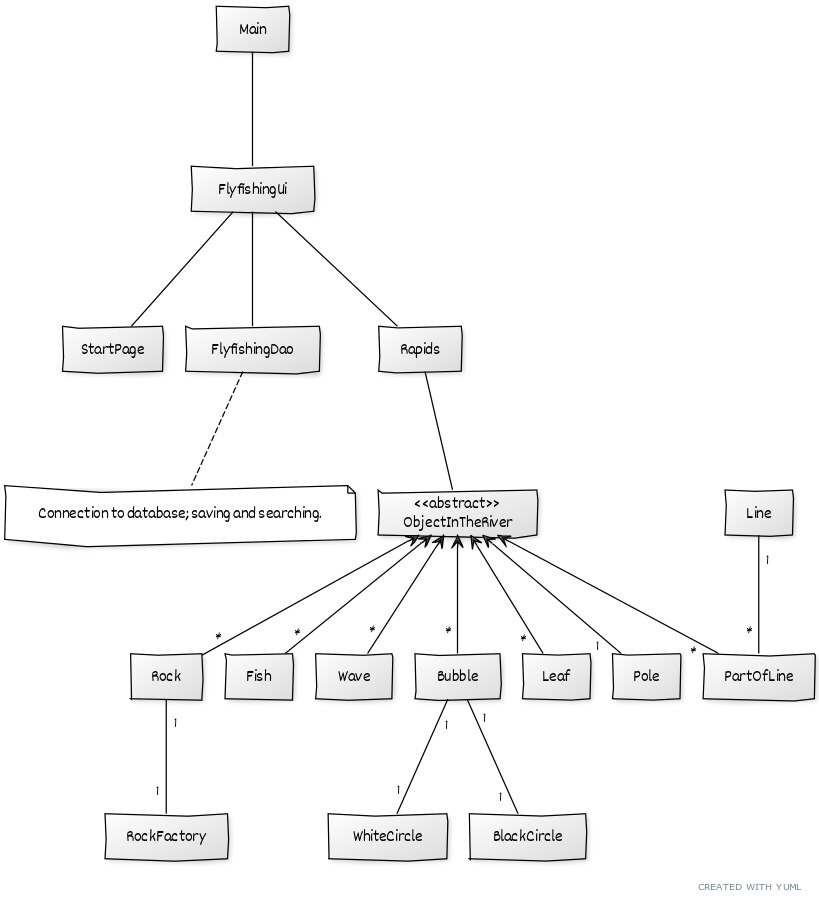
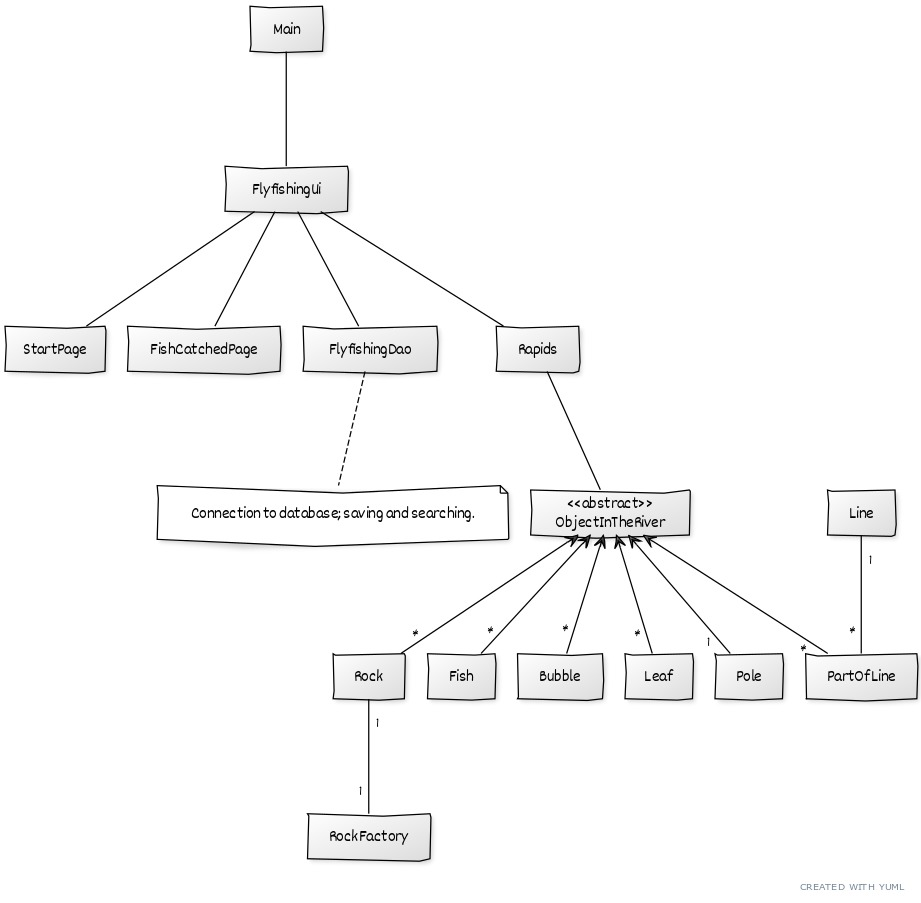
Eriytetty kalasaalissivu omaksi luokakseen jotta kaikilla eri näkymillä oma luokka. Lisäksi muokattu kalan polskinnan kohdistusta.

diff --git a/FlyfishingGame/src/main/java/flyfishinggame/ui/FlyfishingUi.java b/FlyfishingGame/src/main/java/flyfishinggame/ui/FlyfishingUi.java
@@ -39,28 +39,29 @@ public class FlyfishingUi extends Application {
     public static Stage stage;
     public static Scene scene;
     public static Button startButton;
+    public static Button continueButton;
     public static TextField nicknameField;
     public static Line line;
-    public Rapids rapids;
-    private String nickname;
-    private int points;
-    private FlyfishingDao db;
-    private Text topScores;
+    public static Rapids rapids;
+    public static String nickname;
+    public static int points;
+    public static FlyfishingDao db;
+    public static Text topScores;
 
     public FlyfishingUi() throws SQLException {
-        
+
         init(); //Read configurations.
         poleLength = WIDTH / 5;
-        
-        this.db = new FlyfishingDao();
-        this.pane = new Pane();
-        this.nicknameField = new TextField();
-        this.startButton = new Button("Start");
-        this.nickname = "";
-        this.points = 0;
-        this.rapids = new Rapids();
-        this.line = new Line();
-        this.topScores = null;
+        db = new FlyfishingDao();
+        pane = new Pane();
+        nicknameField = new TextField();
+        startButton = new Button("Start");
+        continueButton = new Button("Continue");
+        nickname = "";
+        points = 0;
+        rapids = new Rapids();
+        line = new Line();
+        topScores = null;
     }
 
     @Override
@@ -166,24 +167,11 @@ public class FlyfishingUi extends Application {
         }
         );
 
-        Button continueButton = new Button("Continue");
         scene.setOnKeyPressed(ke -> {
             KeyCode keyCode = ke.getCode();
             if (keyCode.equals(KeyCode.C)) {
                 for (Fish fish : rapids.getFishes()) {
                     if (fish.isHooked()) {
-                        BorderPane fishCatched = new BorderPane();
-                        fishCatched.setPrefSize(WIDTH, HEIGHT);
-                        Label textForFisher = new Label("\n"
-                                + "             Awesome! You got a "
-                                + ((int) fish.getSize()) * 5 + " cm trout!"
-                                + "\n                   You earned "
-                                + ((int) fish.getSize()) * 5 + " points!"
-                                + " \n"
-                                + " \n"
-                                + " \n"
-                                + " \n"
-                                + " \n");
                         points = points + ((int) fish.getSize()) * 5;
                         try {
                             db.addScore(nickname, points);
@@ -192,20 +180,14 @@ public class FlyfishingUi extends Application {
                         }
                         borderpane.getChildren().remove(topScores);
                         try {
-                            topScores = new Text(WIDTH - 150, 80,
-                                    db.getTopFive());
+                            topScores = new Text(WIDTH - 150, 80, db.getTopFive());
                         } catch (SQLException e) {
                             System.out.println(e.getMessage());
                         }
                         borderpane.getChildren().add(topScores);
                         text.setText("Points: " + points);
-                        textForFisher.setFont(new Font("Arial", 40));
-                        fishCatched.setTop(textForFisher);
-                        fishCatched.setCenter(continueButton);
-                        Scene catchScene = new Scene(fishCatched);
-                        stage.setScene(catchScene);
-                        stage.setTitle("Fish catched!");
-                        stage.show();
+                        FishCatchedPage fCP = new FishCatchedPage();
+                        fCP.createPage(fish);
                         return;
                     }
                 }

diff --git a/FlyfishingGame/src/main/java/flyfishinggame/ui/FishCatchedPage.java b/FlyfishingGame/src/main/java/flyfishinggame/ui/FishCatchedPage.java
@@ -1,0 +1,46 @@
+package flyfishinggame.ui;
+
+import flyfishinggame.domain.Fish;
+import static flyfishinggame.ui.FlyfishingUi.HEIGHT;
+import static flyfishinggame.ui.FlyfishingUi.WIDTH;
+import static flyfishinggame.ui.FlyfishingUi.stage;
+import static flyfishinggame.ui.FlyfishingUi.continueButton;
+import javafx.scene.Scene;
+import javafx.scene.control.Label;
+import javafx.scene.layout.BorderPane;
+import javafx.scene.text.Font;
+
+/**
+ * When player catches a fish this class creates a page where it shows info
+ * about the catch. This class is one of the UI classes.
+ *
+ * @author Matias Tamsi
+ */
+public class FishCatchedPage {
+
+    /**
+     * If player catches a fish, show the length of the fish and points of that
+     * catch.
+     */
+    public void createPage(Fish fish) {
+        BorderPane fishCatched = new BorderPane();
+        fishCatched.setPrefSize(WIDTH, HEIGHT);
+        Label textForFisher = new Label("\n"
+                + "             Awesome! You got a "
+                + ((int) fish.getSize()) * 5 + " cm trout!"
+                + "\n                   You earned "
+                + ((int) fish.getSize()) * 5 + " points!"
+                + " \n"
+                + " \n"
+                + " \n"
+                + " \n"
+                + " \n");
+        textForFisher.setFont(new Font("Arial", 40));
+        fishCatched.setTop(textForFisher);
+        fishCatched.setCenter(continueButton);
+        Scene catchScene = new Scene(fishCatched);
+        stage.setScene(catchScene);
+        stage.setTitle("Fish catched!");
+        stage.show();
+    }
+}

diff --git a/FlyfishingGame/src/main/java/flyfishinggame/domain/Rapids.java b/FlyfishingGame/src/main/java/flyfishinggame/domain/Rapids.java
@@ -343,12 +343,13 @@ public class Rapids {
      */
     public void fishBite(Fish fish, Pane pane) {
         for (int i = 6; i > 1; i--) {
-            int randomX = 20 + r.nextInt(5);
-            int randomY = 20 + r.nextInt(5);
+            double s = fish.getSize();
+            int rX = r.nextInt((int) s);
+            int rY = r.nextInt((int) s);
             Bubble bubble = new Bubble(
-                    ((int) (fish.getX() * 0.95 + randomX * fish.getSize() / i / 2)),
-                    ((int) (fish.getY() * 0.80 + randomY * fish.getSize() / i / 2)),
-                    (int) fish.getSize() * i / 2);
+                    ((int) (fish.getX() + rX + s / i)),
+                    ((int) (fish.getY() + rY + s / i)),
+                    (int) s * i / 2);
             pane.getChildren().add(bubble.black.getShapeCircle());
             pane.getChildren().add(bubble.white.getShapeCircle());
             splashRings.add(bubble);
